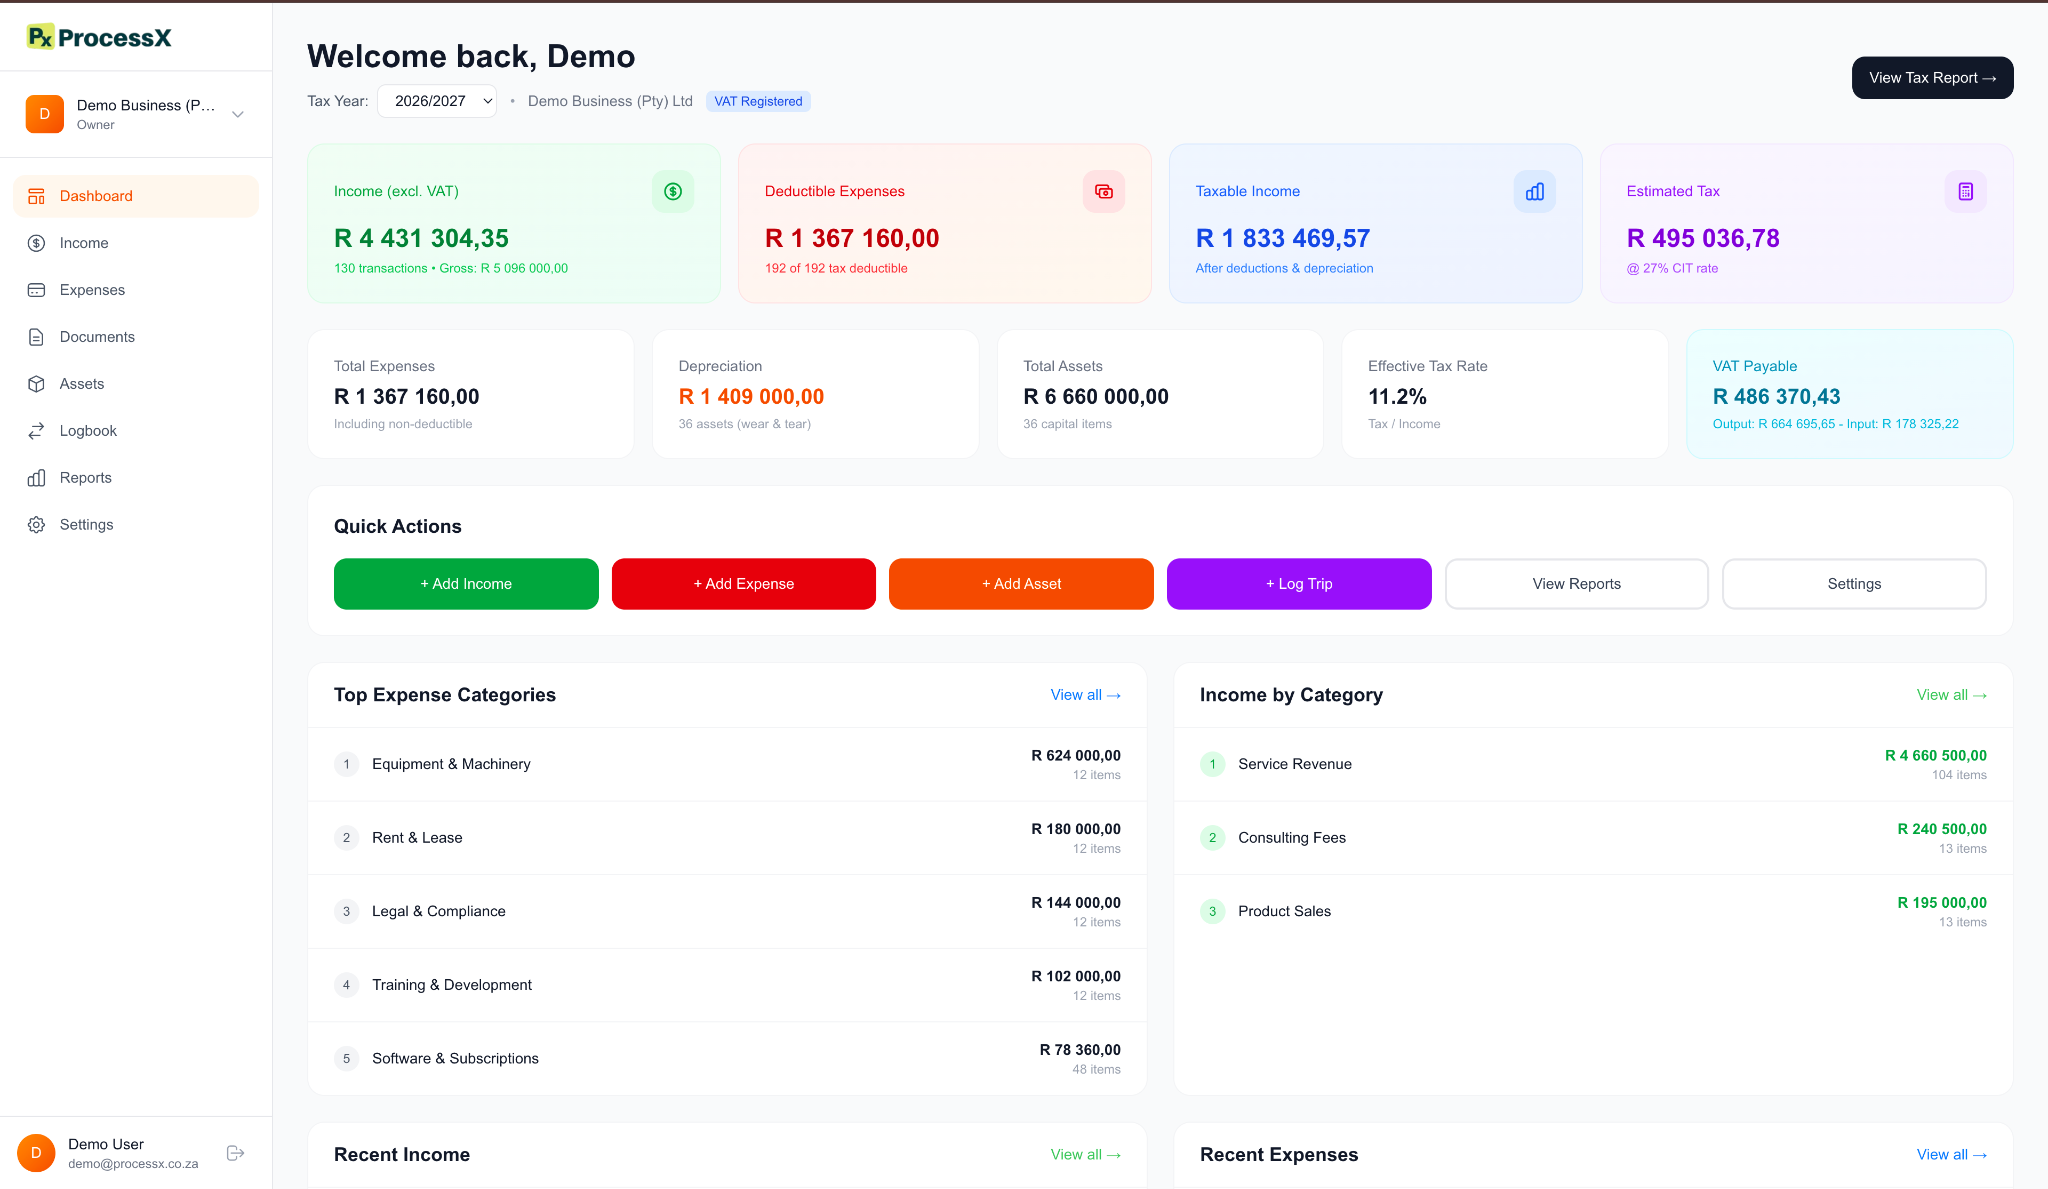
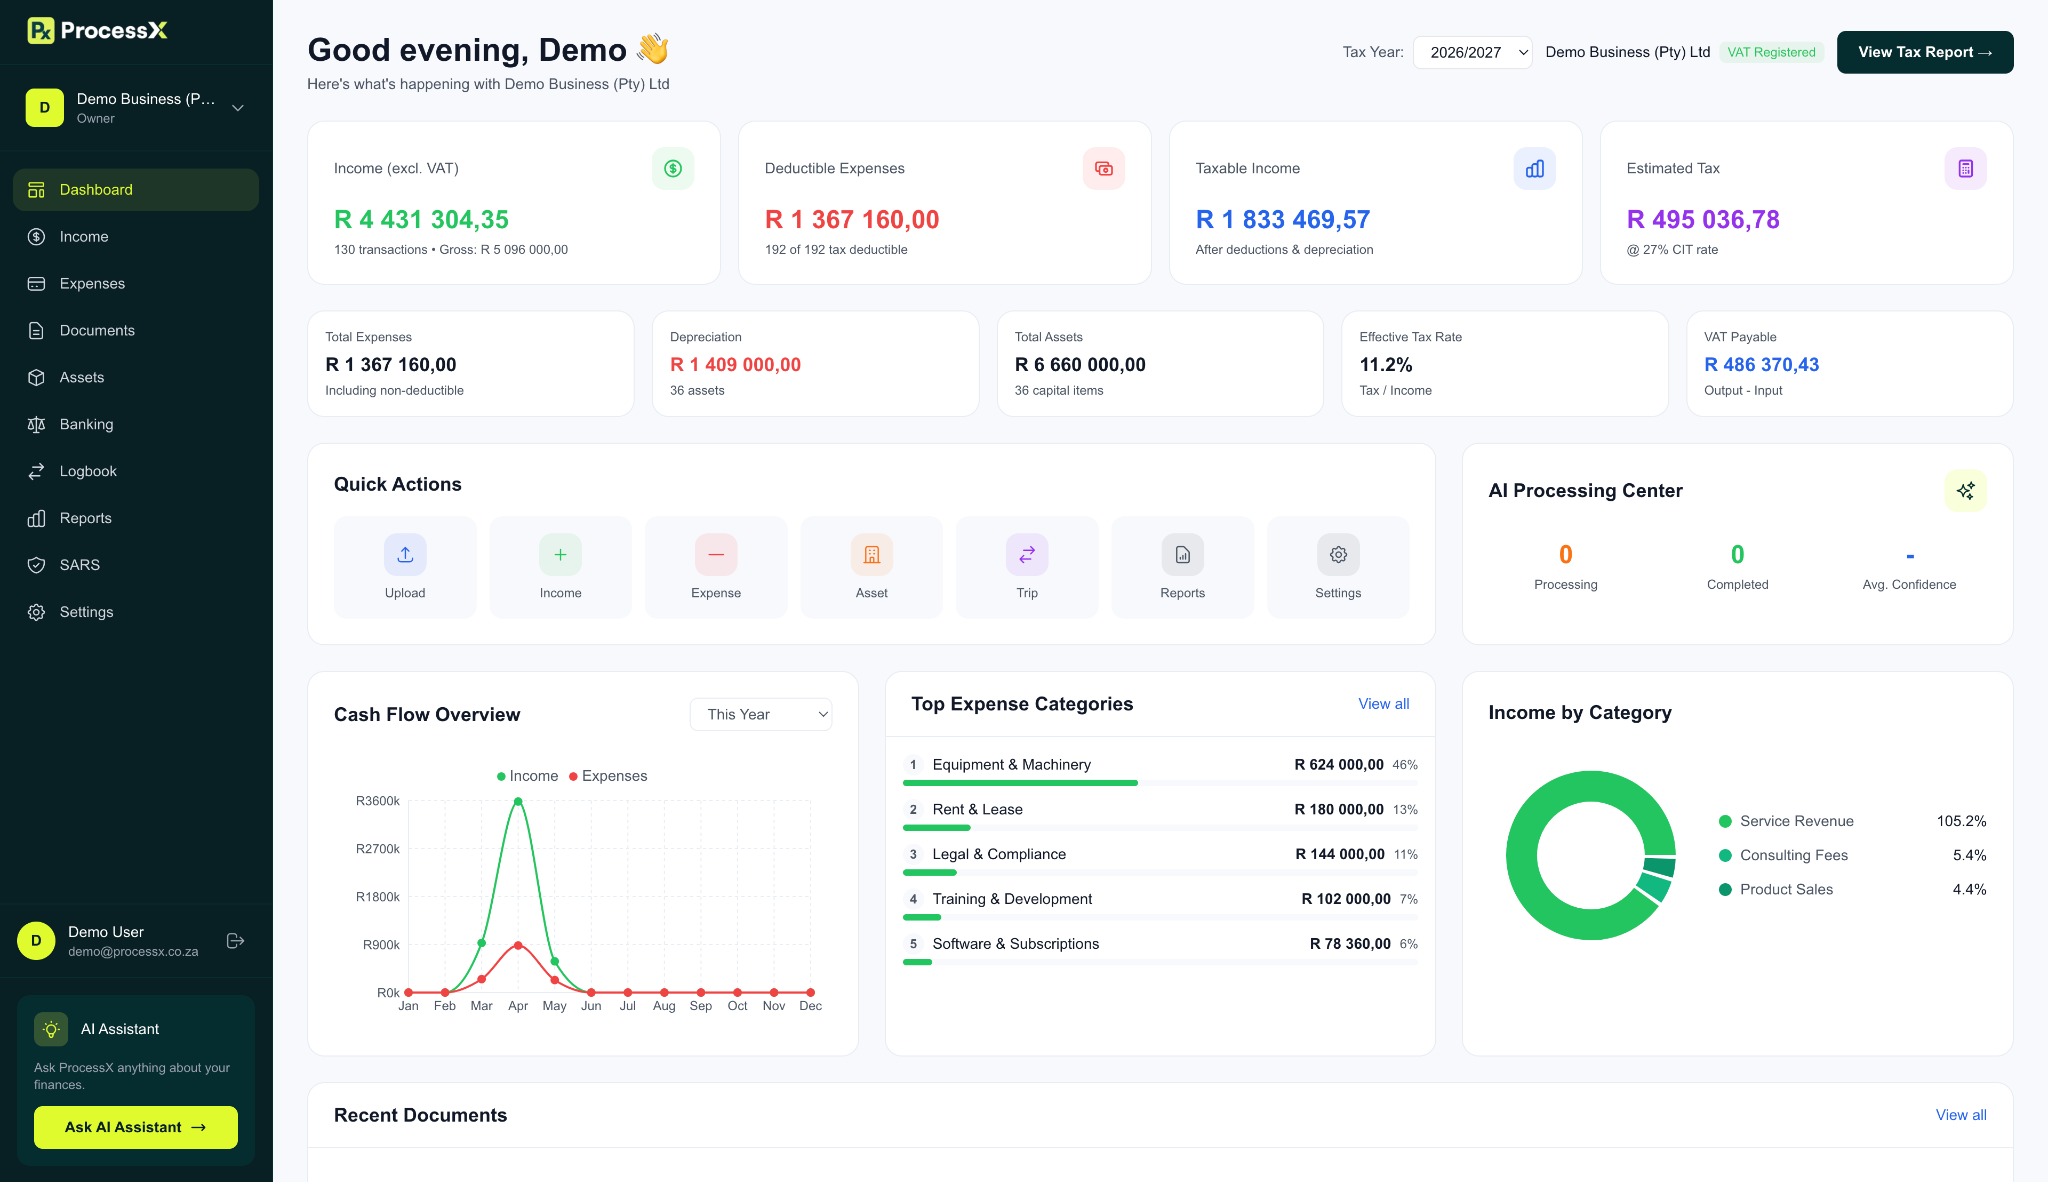
chore: comment out Banking, SARS, and AI Assistant from sidebar
These features are not yet implemented, so hiding them from the menu for now.

diff --git a/src/components/layout/DashboardSidebar.tsx b/src/components/layout/DashboardSidebar.tsx
@@ -77,15 +77,15 @@ const navItems = [
       </svg>
     ),
   },
-  {
-    href: '/dashboard/banking',
-    label: 'Banking',
-    icon: (
-      <svg className="w-5 h-5" fill="none" stroke="currentColor" viewBox="0 0 24 24">
-        <path strokeLinecap="round" strokeLinejoin="round" strokeWidth={1.5} d="M3 6l3 1m0 0l-3 9a5.002 5.002 0 006.001 0M6 7l3 9M6 7l6-2m6 2l3-1m-3 1l-3 9a5.002 5.002 0 006.001 0M18 7l3 9m-3-9l-6-2m0-2v2m0 16V5m0 16H9m3 0h3" />
-      </svg>
-    ),
-  },
+  // {
+  //   href: '/dashboard/banking',
+  //   label: 'Banking',
+  //   icon: (
+  //     <svg className="w-5 h-5" fill="none" stroke="currentColor" viewBox="0 0 24 24">
+  //       <path strokeLinecap="round" strokeLinejoin="round" strokeWidth={1.5} d="M3 6l3 1m0 0l-3 9a5.002 5.002 0 006.001 0M6 7l3 9M6 7l6-2m6 2l3-1m-3 1l-3 9a5.002 5.002 0 006.001 0M18 7l3 9m-3-9l-6-2m0-2v2m0 16V5m0 16H9m3 0h3" />
+  //     </svg>
+  //   ),
+  // },
   {
     href: '/dashboard/vehicle-logbook',
     label: 'Logbook',
@@ -104,15 +104,15 @@ const navItems = [
       </svg>
     ),
   },
-  {
-    href: '/dashboard/sars',
-    label: 'SARS',
-    icon: (
-      <svg className="w-5 h-5" fill="none" stroke="currentColor" viewBox="0 0 24 24">
-        <path strokeLinecap="round" strokeLinejoin="round" strokeWidth={1.5} d="M9 12l2 2 4-4m5.618-4.016A11.955 11.955 0 0112 2.944a11.955 11.955 0 01-8.618 3.04A12.02 12.02 0 003 9c0 5.591 3.824 10.29 9 11.622 5.176-1.332 9-6.03 9-11.622 0-1.042-.133-2.052-.382-3.016z" />
-      </svg>
-    ),
-  },
+  // {
+  //   href: '/dashboard/sars',
+  //   label: 'SARS',
+  //   icon: (
+  //     <svg className="w-5 h-5" fill="none" stroke="currentColor" viewBox="0 0 24 24">
+  //       <path strokeLinecap="round" strokeLinejoin="round" strokeWidth={1.5} d="M9 12l2 2 4-4m5.618-4.016A11.955 11.955 0 0112 2.944a11.955 11.955 0 01-8.618 3.04A12.02 12.02 0 003 9c0 5.591 3.824 10.29 9 11.622 5.176-1.332 9-6.03 9-11.622 0-1.042-.133-2.052-.382-3.016z" />
+  //     </svg>
+  //   ),
+  // },
   {
     href: '/dashboard/settings',
     label: 'Settings',
@@ -330,8 +330,8 @@ export default function DashboardSidebar({
         </div>
       </div>
 
-      {/* AI Assistant */}
-      <div className="border-t border-[#062C2E] p-4">
+      {/* AI Assistant - Commented out for now */}
+      {/* <div className="border-t border-[#062C2E] p-4">
         <div className="bg-[#062C2E] rounded-xl p-4">
           <div className="flex items-center gap-3 mb-3">
             <div className="w-8 h-8 rounded-lg bg-[#DFFB2D]/20 flex items-center justify-center">
@@ -351,7 +351,7 @@ export default function DashboardSidebar({
             </svg>
           </button>
         </div>
-      </div>
+      </div> */}
     </div>
   )
 
